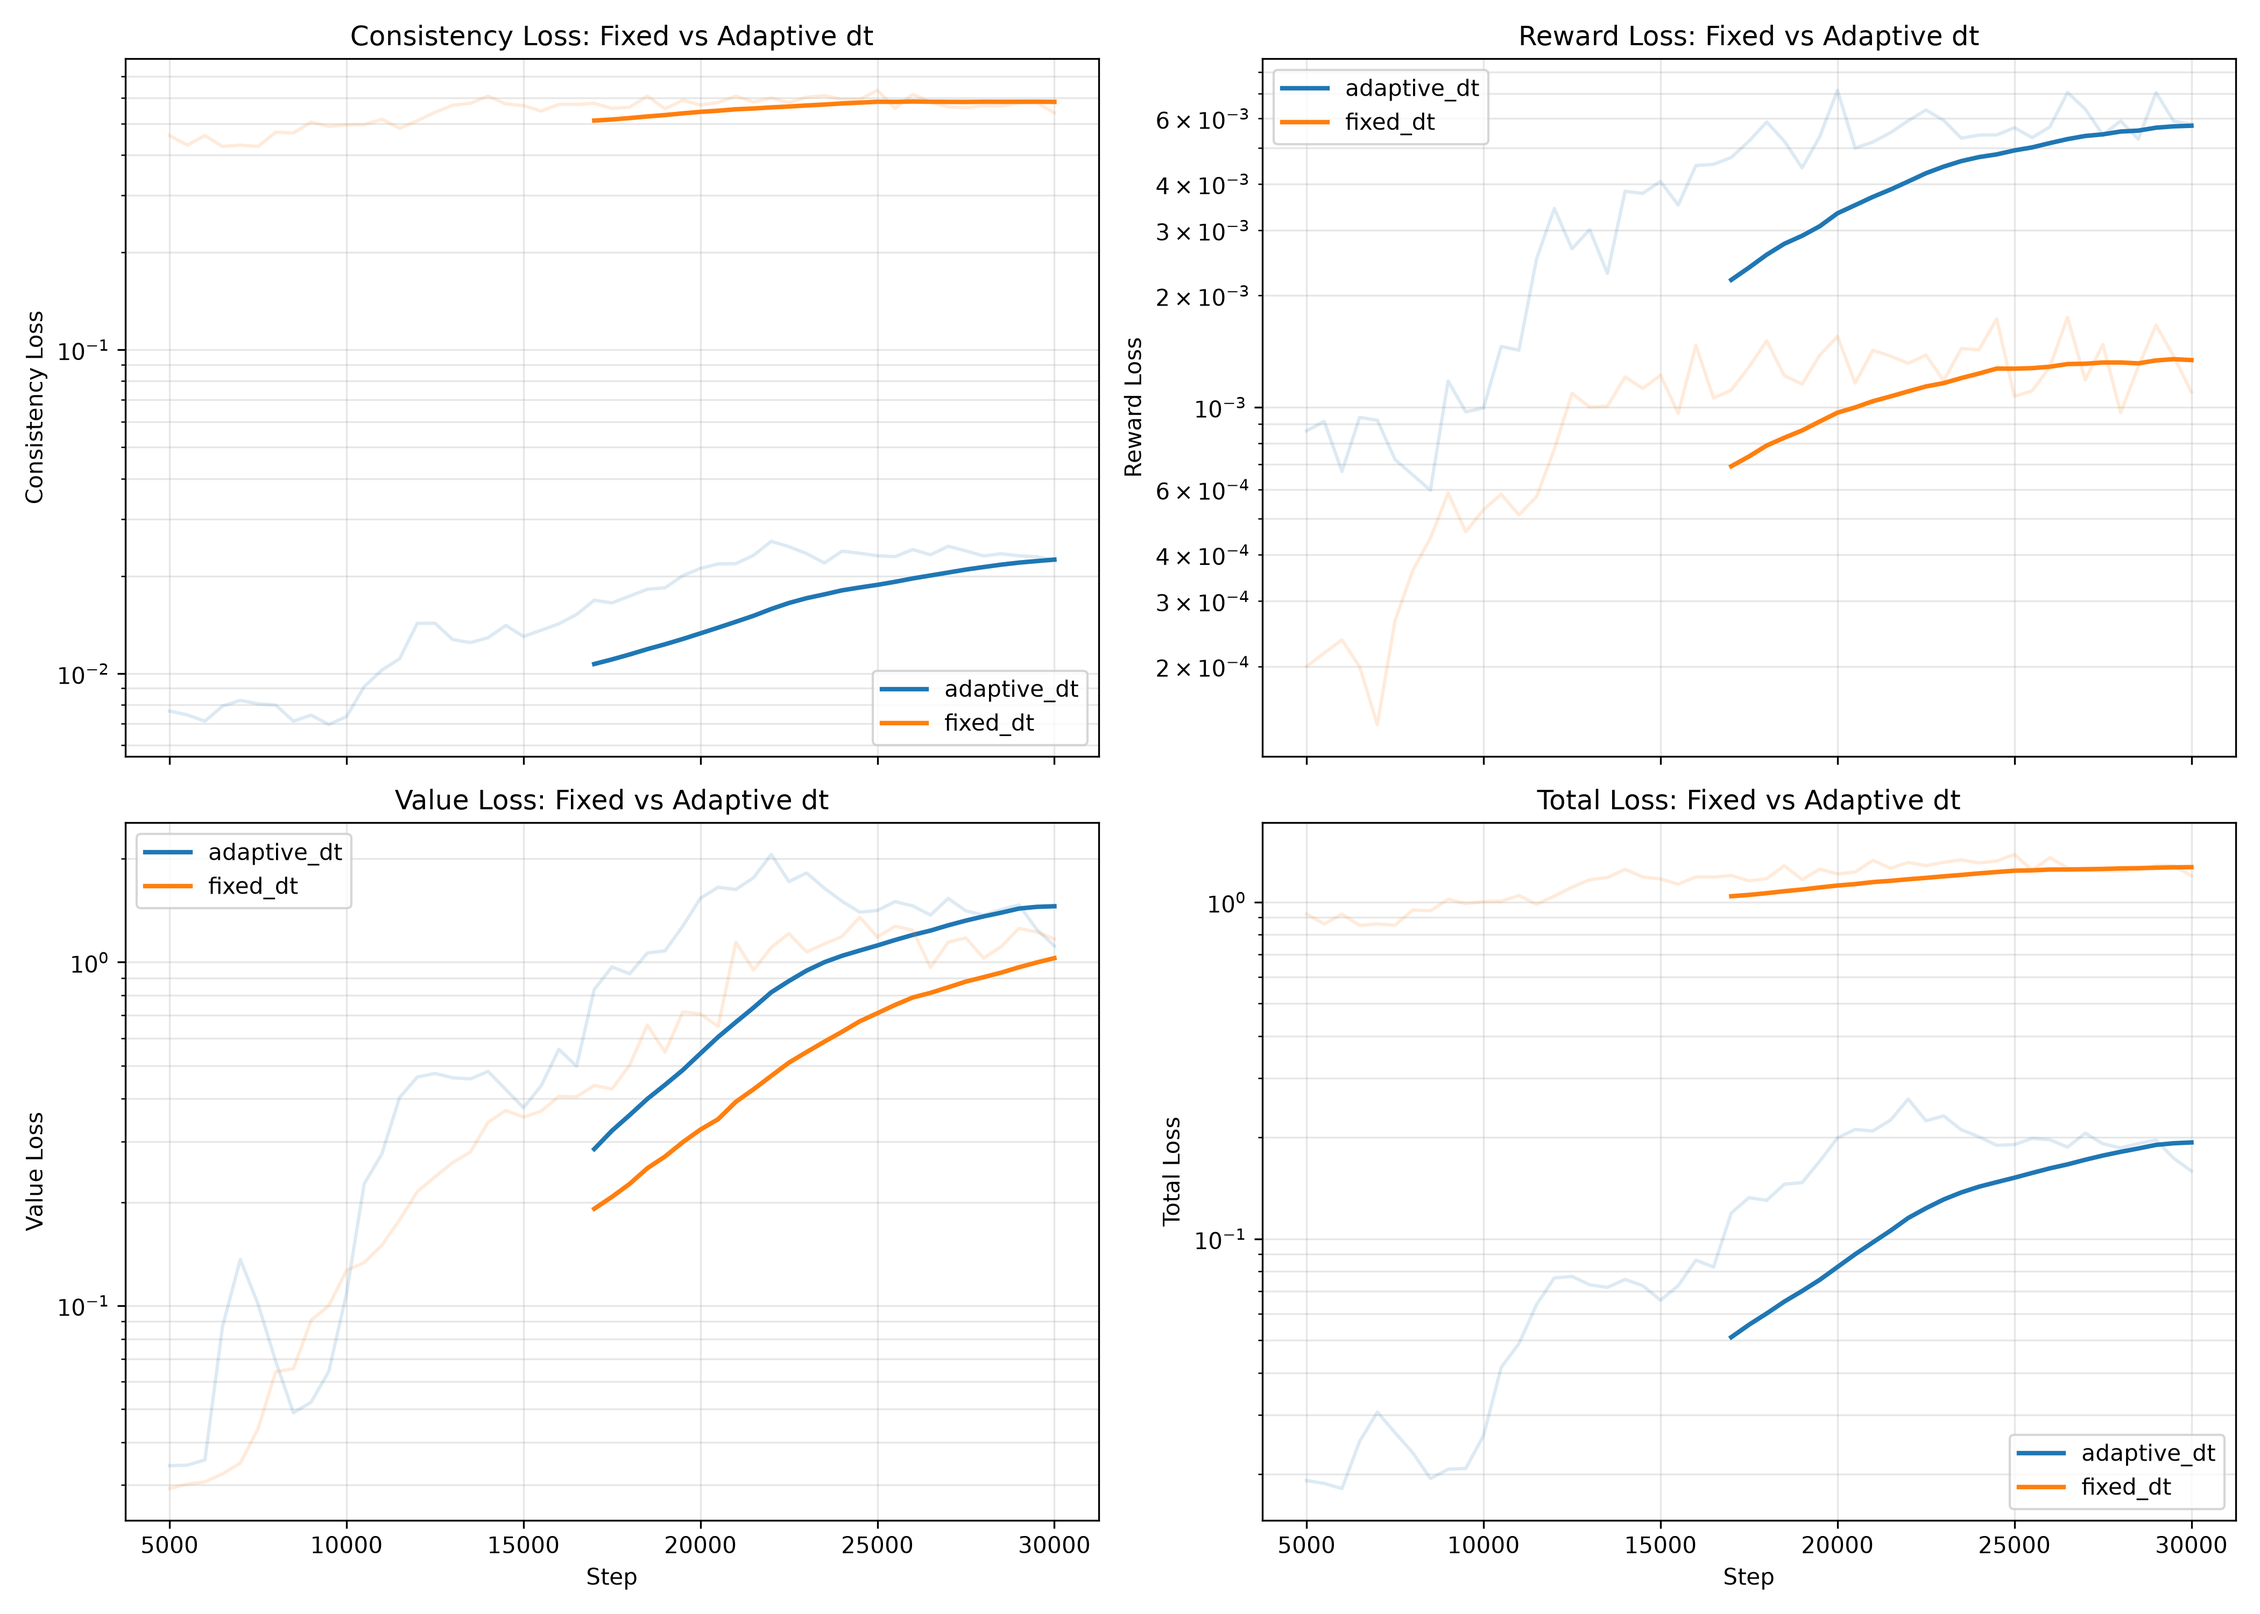
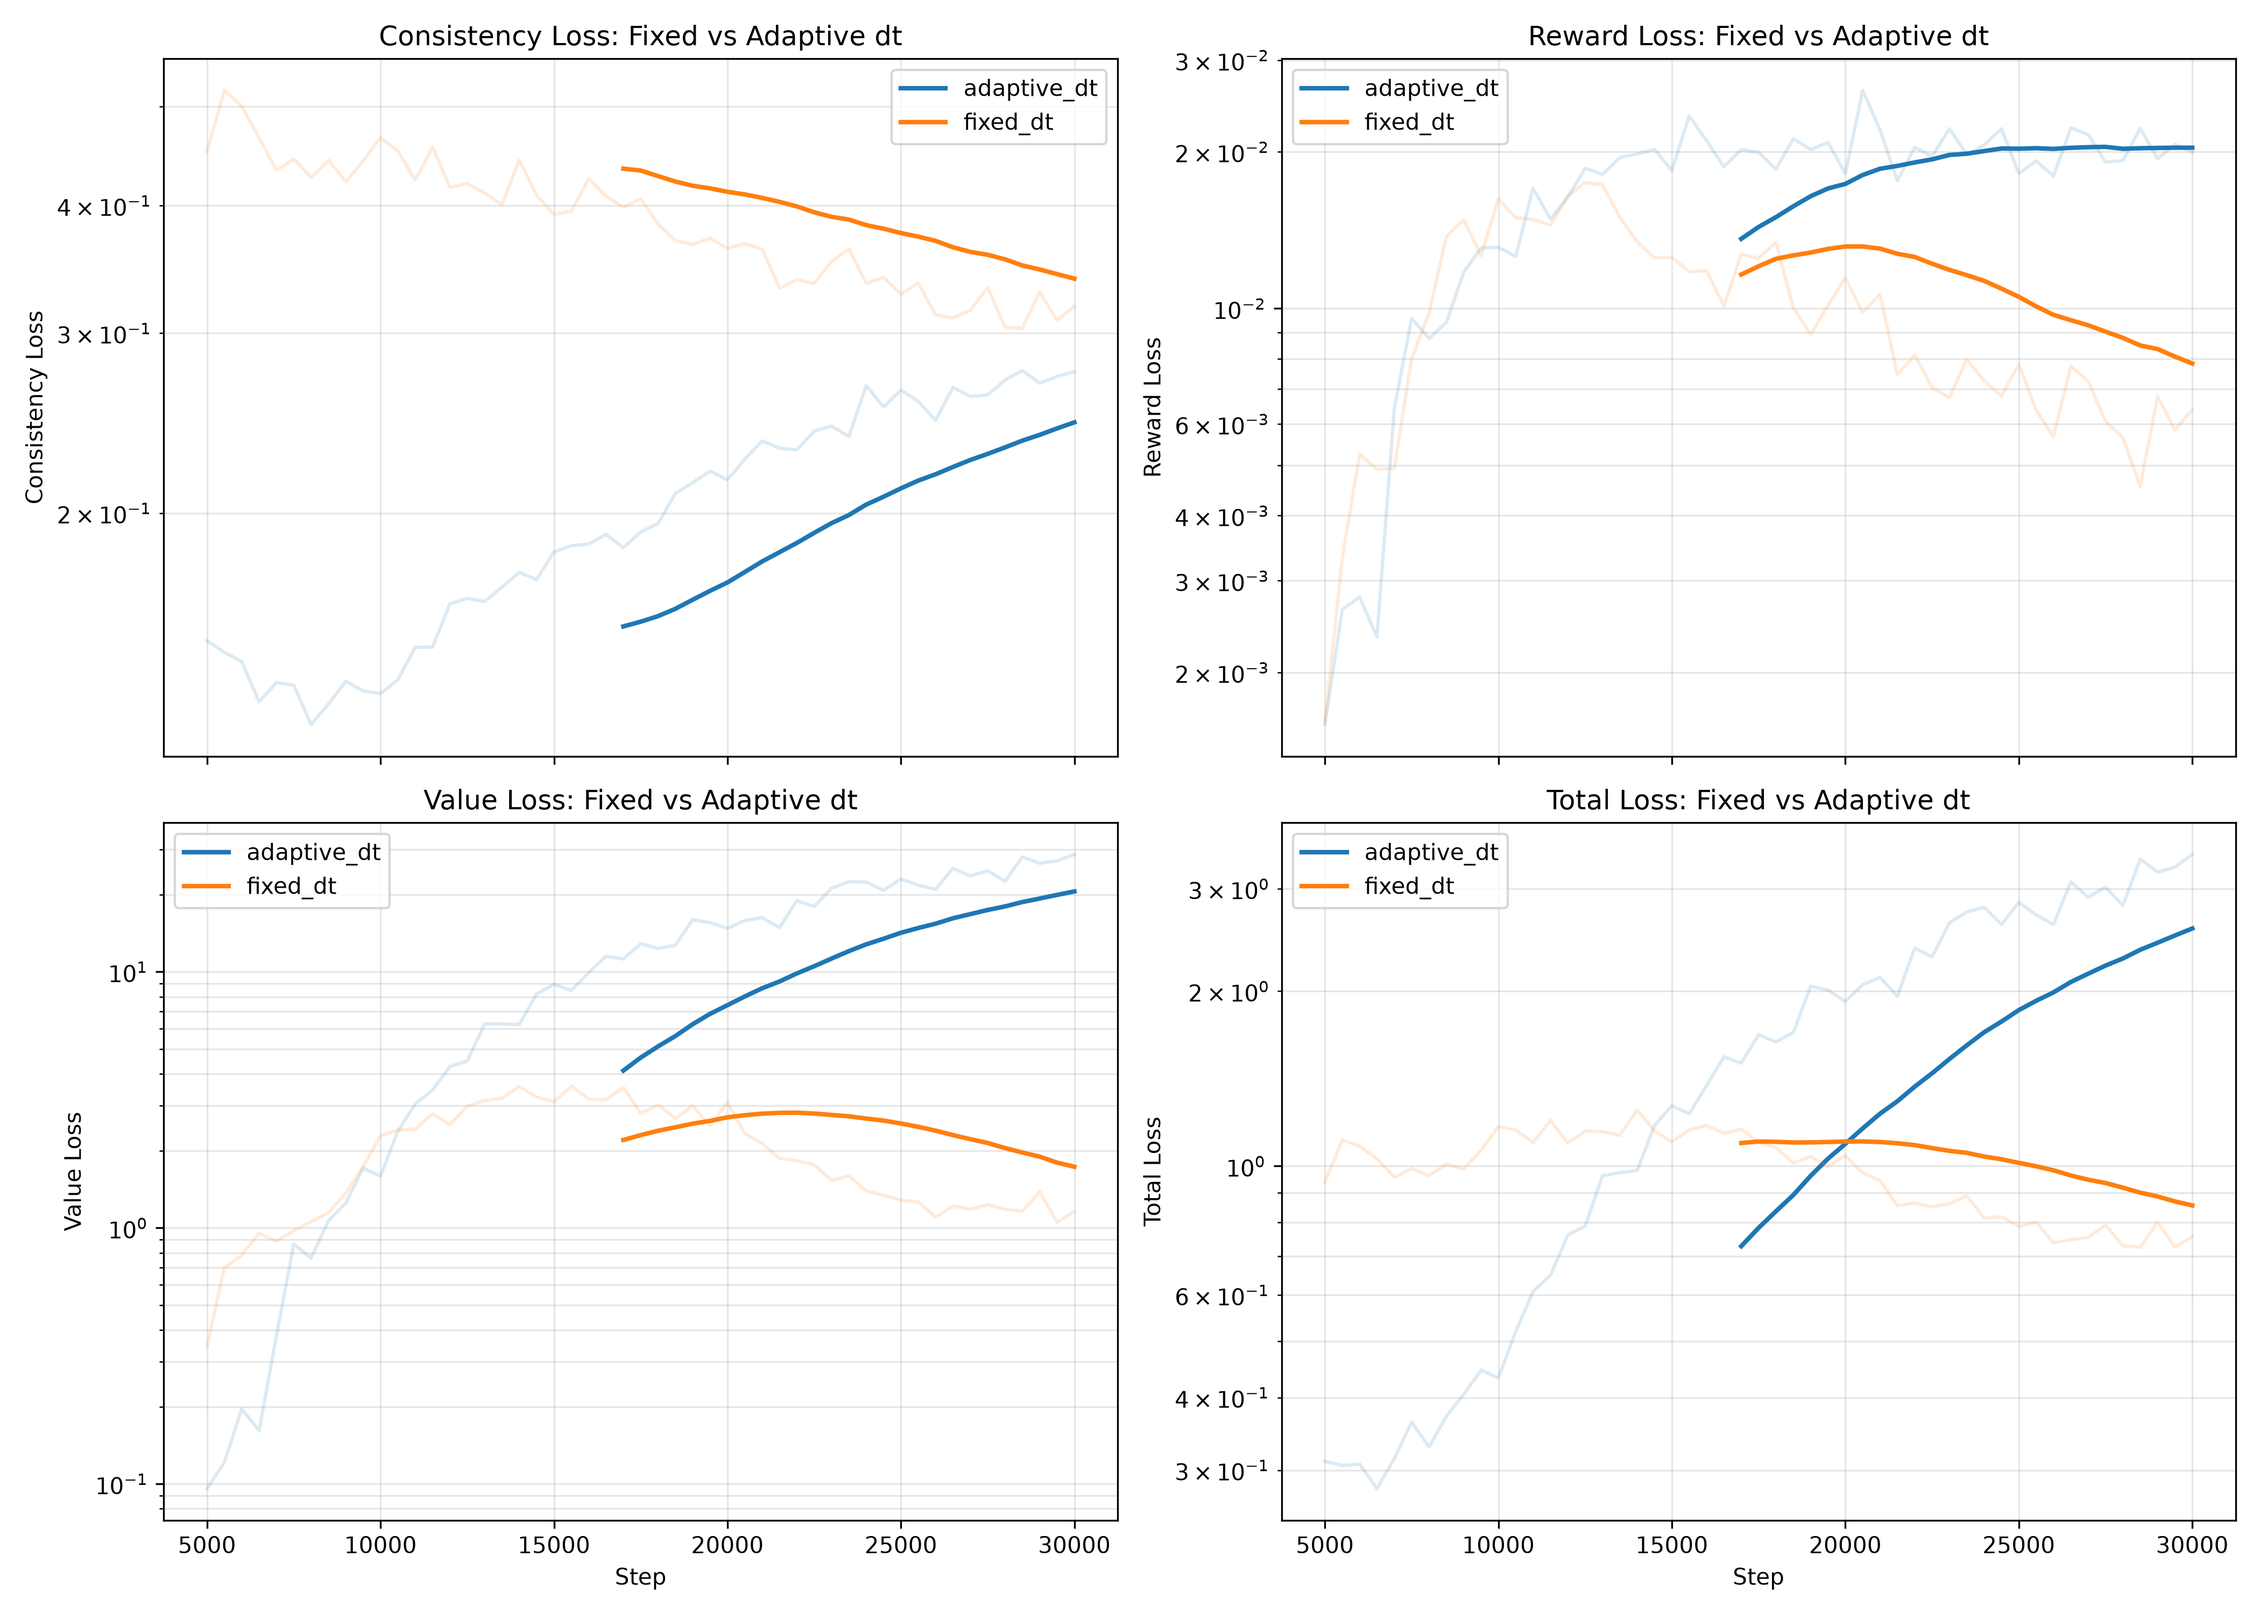
Changed to a value loss as opposed to q loss for adaptive method. removed the pi policy from adaptive method. Reason was so that terminal bootstrap was action agnsotic and hopefully timestep too. Unfortunately it still sucks when training with adaptive method. tested adaptive method with kmax = 1, b

diff --git a/TD-MPC/configs/fixed_versus_adaptive/plot_data.py b/TD-MPC/configs/fixed_versus_adaptive/plot_data.py
@@ -20,6 +20,13 @@ LOSS_METRICS = {
     "metric_total_loss": ("Total Loss", "Total Loss"),
 }
 
+# Diagnostic metrics plotted separately from the losses above (not present for
+# every training run yet, e.g. z_std is only logged by tdmpc_adaptive.py so
+# far, not tdmpc.py -> loaded/plotted only when present).
+OTHER_METRICS = {
+    "metric_z_std": ("Latent Std (z)", "Latent Std"),
+}
+
 
 def load_training_data():
     """
@@ -56,7 +63,7 @@ def load_training_data():
             "steps": data["steps"],
             "rewards": data["training_episode_rewards"],
         }
-        for key in LOSS_METRICS:
+        for key in list(LOSS_METRICS) + list(OTHER_METRICS):
             if key in data.files:
                 record[key] = data[key]
             else:
@@ -126,6 +133,32 @@ def plot_fixed_versus_adaptive(window=25):
 
     fig2.tight_layout()
     fig2.savefig("fixed_versus_adaptive_losses.png", dpi=300)
+
+    # --- Other diagnostics (e.g. latent std) vs steps, only when present ---
+    available_other = [key for key in OTHER_METRICS
+                        if any(key in data for data in experiments.values())]
+
+    if available_other:
+        fig3, axes3 = plt.subplots(len(available_other), 1,
+                                    figsize=(10, 5 * len(available_other)),
+                                    squeeze=False)
+
+        for ax, key in zip(axes3[:, 0], available_other):
+            ylabel, title = OTHER_METRICS[key]
+            for name, data in experiments.items():
+                if key not in data:
+                    print(f"  {name}: skipping {key} plot, not logged for this run")
+                    continue
+                _plot_series(ax, data["steps"], data[key], window, name)
+
+            ax.set_xlabel("Step")
+            ax.set_ylabel(ylabel)
+            ax.set_title(f"{title}: Fixed vs Adaptive dt")
+            ax.legend()
+            ax.grid(True, alpha=0.3)
+
+        fig3.tight_layout()
+        fig3.savefig("fixed_versus_adaptive_diagnostics.png", dpi=300)
 
     plt.show()
 
